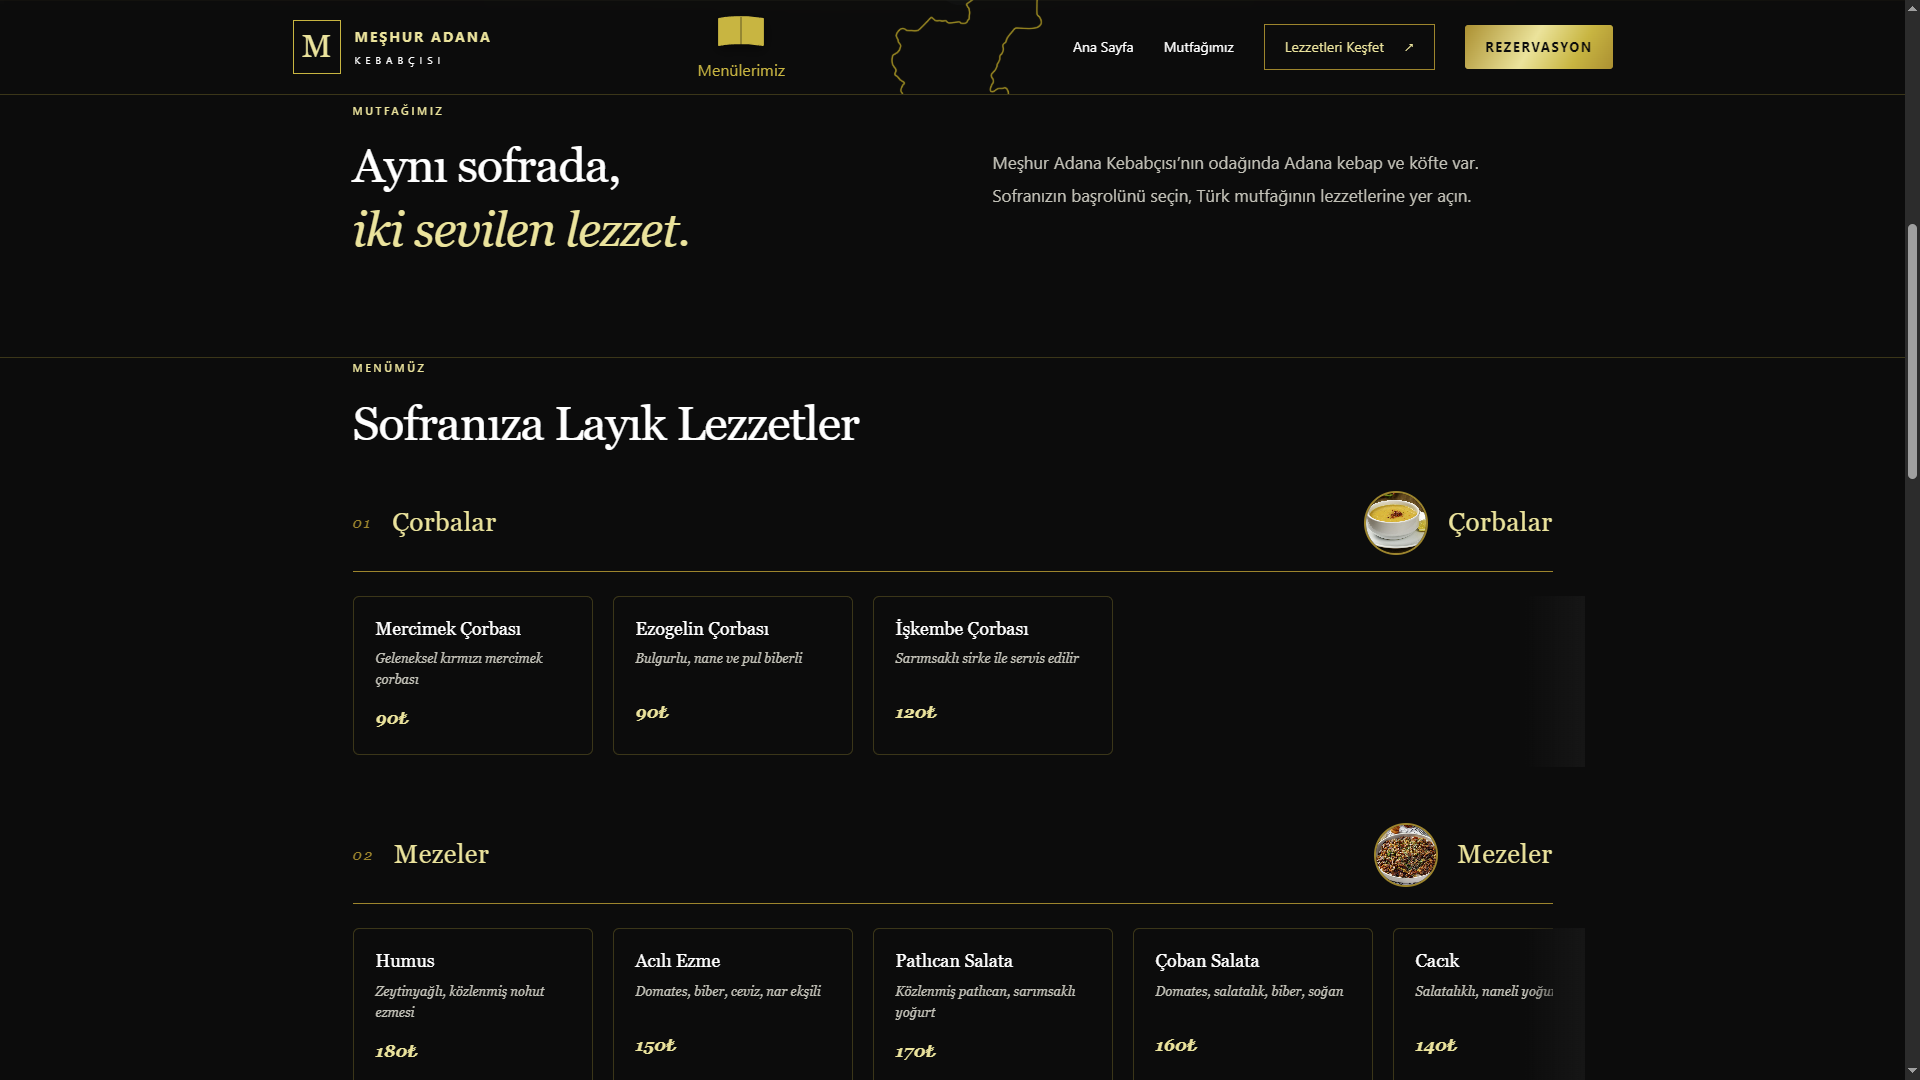
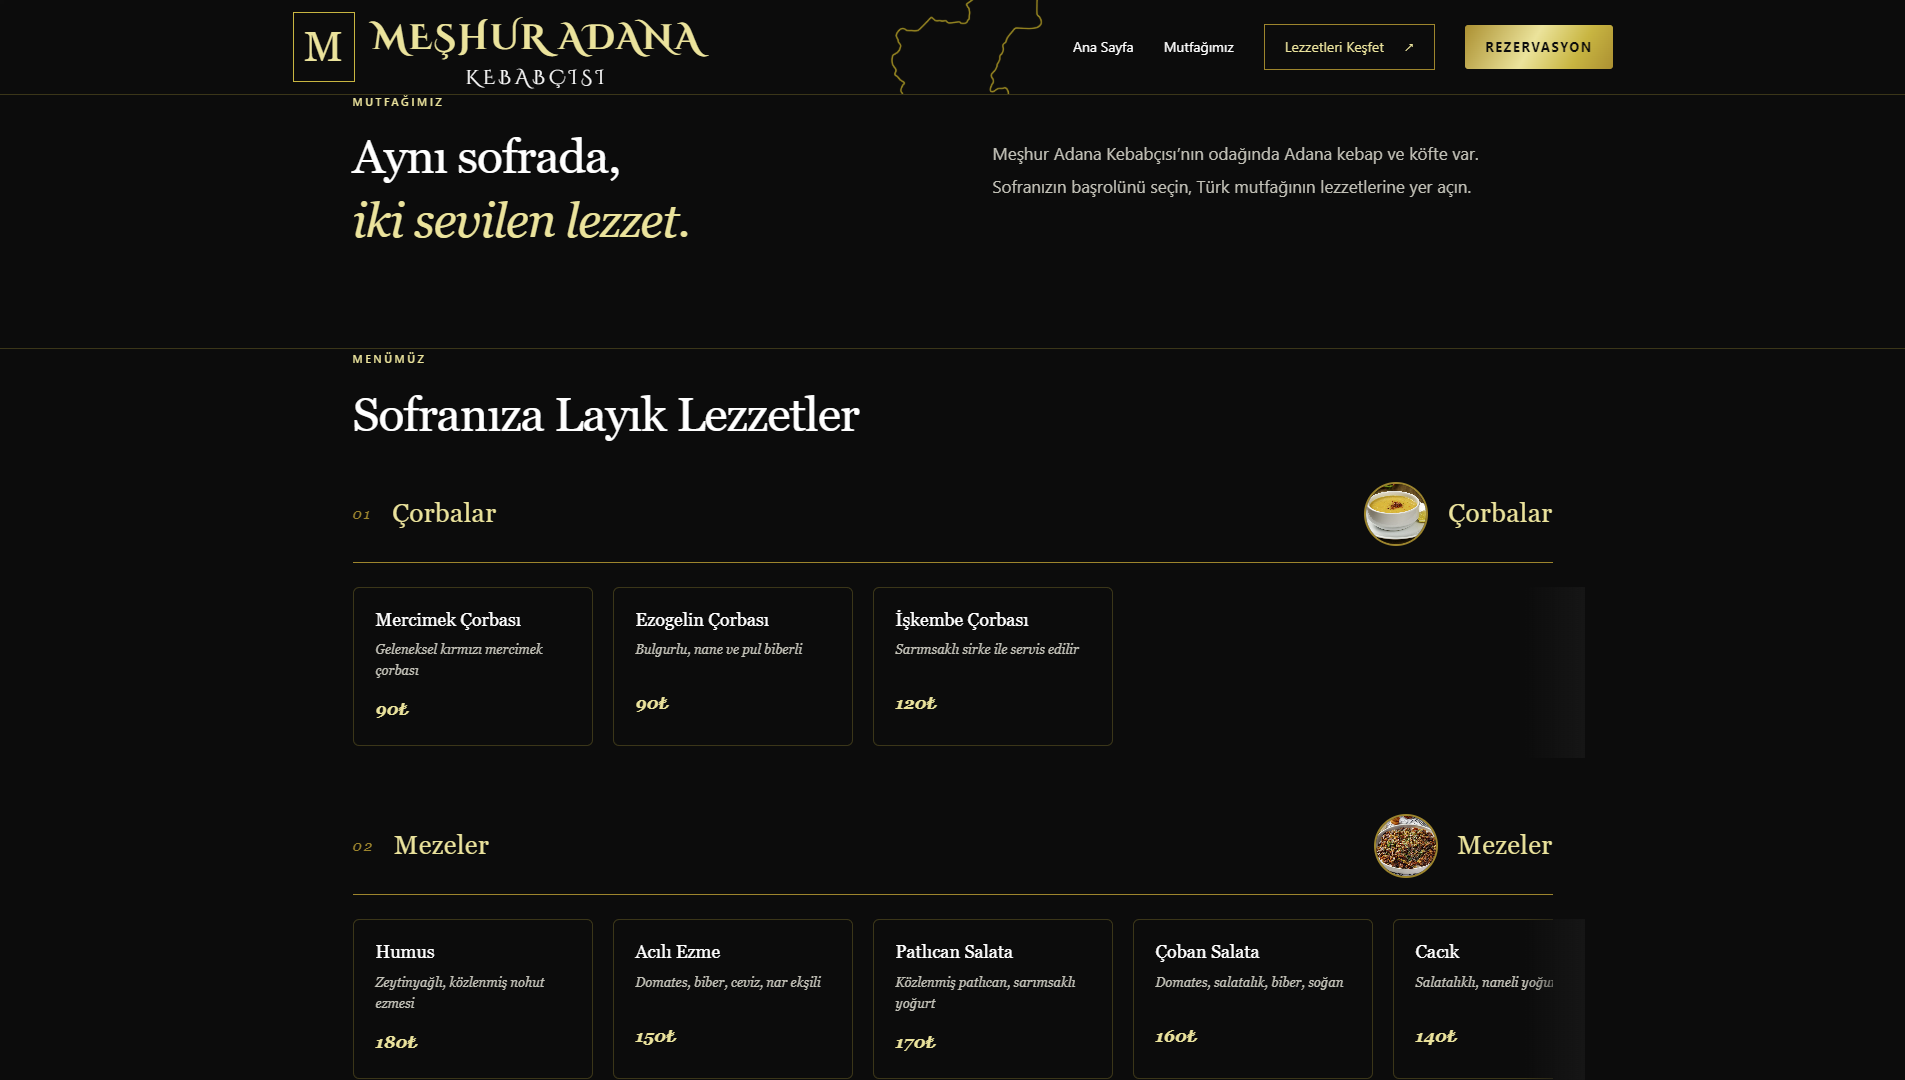
uptade

diff --git a/client/src/App.jsx b/client/src/App.jsx
@@ -50,121 +50,6 @@ const handleHeroBottomMouseMove = (event) => {
             </span>
           </a>
 
-          <a className="menu-book-link" href="#menu" aria-label="Menülerimiz" onClick={closeMenu}>
-  <svg className="menu-book-icon" viewBox="0 0 48 36" xmlns="http://www.w3.org/2000/svg" aria-hidden="true">
-  <g className="menu-book-pages" fill="none" stroke="currentColor">
-    <path d="M4 6C4 6 12 3 22 6V30C12 27 4 30 4 30V6Z" strokeWidth="1.6" strokeLinejoin="round" />
-    <path d="M44 6C44 6 36 3 26 6V30C36 27 44 30 44 30V6Z" strokeWidth="1.6" strokeLinejoin="round" />
-    <path d="M24 7V29" strokeWidth="1.6" />
-    <path d="M9 12H18M9 17H18M9 22H16" strokeWidth="1" strokeLinecap="round" opacity="0.6" />
-    <path d="M30 12H39M30 17H39M32 22H39" strokeWidth="1" strokeLinecap="round" opacity="0.6" />
-  </g>
-  <g className="menu-book-cover">
-    <path d="M4 6C4 6 22 2 44 6V30C22 26 4 30 4 30V6Z" fill="currentColor" stroke="currentColor" strokeWidth="1.2" strokeLinejoin="round" />
-    <path d="M24 4.5V31.5" stroke="#0c0c0c" strokeWidth="1" opacity="0.5" />
-  </g>
-</svg>
-
-<span className="menu-book-label">Menülerimiz</span>
-
-</a>
-
-          <style>{`
-            .menu-book-link {
-              position: absolute;
-              left: 34%;
-              top: 50%;
-              transform: translate(-50%, -50%);
-              width: 110px;
-              min-height: 74px;
-              display: flex;
-              flex-direction: column;
-              align-items: center;
-              justify-content: center;
-              gap: 5px;
-              color: #d4af37;
-              text-decoration: none;
-            }
-            .menu-book-icon {
-  width: 54px;
-  height: 40px;
-  overflow: visible;
-  filter: drop-shadow(0 4px 6px rgba(0,0,0,.45));
-}
-.menu-book-pages {
-  opacity: 0;
-  transform: scaleX(0);
-  transform-origin: 24px 18px;
-  transition: opacity 320ms ease 60ms, transform 320ms ease 60ms;
-}
-.menu-book-cover {
-  transform-origin: 44px 18px;
-  transition: transform 380ms ease, opacity 380ms ease;
-}
-.menu-book-link:hover .menu-book-pages,
-.menu-book-link:focus-visible .menu-book-pages {
-  opacity: 1;
-  transform: scaleX(1);
-}
-.menu-book-link:hover .menu-book-cover,
-.menu-book-link:focus-visible .menu-book-cover {
-  transform: rotate(-18deg) translateX(-6px);
-  opacity: 0;
-}
-.menu-book-label {
-            .menu-book-label {
-  position: absolute;
-  top: calc(50% + 25px);
-  left: 50%;
-  width: max-content;
-  font-size: 14px;
-  font-weight: 600;
-  line-height: 1.2;
-  letter-spacing: 1px;
-  opacity: 0;
-  translate: -50% 0;
-  transform: translateY(3px);
-  transition: opacity 220ms ease, transform 220ms ease;
-}
-            .menu-book-link:focus-visible {
-              outline: 2px solid #d4af37;
-              outline-offset: 4px;
-              border-radius: 4px;
-            }
-            .menu-book-link:focus-visible .menu-book { transform: scale(1.1); }
-            .menu-book-link:focus-visible .menu-book-label { opacity: 1; transform: translateY(0); }
-            @media (hover: hover) {
-              .menu-book-link:hover .menu-book {
-                transform: scale(1.1);
-                filter: drop-shadow(0 3px 9px rgba(212,175,55,.3));
-              }
-              .menu-book-link:hover .menu-book-label { opacity: 1; transform: translateY(0); }
-            }
-            @media (max-width: 1100px) and (min-width: 761px) {
-              .menu-book-link { left: 43%; width: 85px; }
-            }
-            @media (max-width: 760px) {
-              .menu-book-link {
-                position: static;
-                transform: none;
-                width: 64px;
-                min-height: 64px;
-                flex-shrink: 0;
-                margin-left: auto;
-              }
-              .menu-book-icon { width: 42px; height: 31px; }
-              .menu-book-icon { width: 42px; height: 31px; }
-              
-            }
-            @media (hover: none) {
-              .menu-book-label { opacity: 1; transform: none; }
-            }
-            @media (prefers-reduced-motion: reduce) {
-              .menu-book, .menu-book-label { transition: none; }
-              .menu-book-link:hover .menu-book,
-              .menu-book-link:focus-visible .menu-book { transform: none; }
-            }
-          `}</style>
 
           <button
             ref={menuButtonRef}

diff --git a/client/src/App.css b/client/src/App.css
@@ -41,38 +41,45 @@
 .brand {
   display: inline-flex;
   align-items: center;
-  gap: 14px;
+  gap: 18px;
   flex-shrink: 0;
+  
 }
 
 .brand-emblem {
   display: grid;
   place-items: center;
-  width: 48px;
-  height: 54px;
+  width: 62px;
+  height: 70px;
   border: 1px solid var(--gold);
   color: var(--gold-light);
   font-family: Georgia, serif;
-  font-size: 32px;
+  font-size: 42px;
 }
 
 .brand-text {
   display: flex;
   flex-direction: column;
-  gap: 3px;
+  align-items: center;
+  gap: 0px;
+  margin-top: 10px;
 }
 
 .brand-top {
   color: var(--gold-light);
-  font-size: 14px;
+  font-family: "Cinzel Decorative", Georgia, serif;
   font-weight: 700;
+  font-size: 35px;
   letter-spacing: 2px;
 }
 
 .brand-bottom {
   color: var(--white);
-  font-size: 10px;
-  letter-spacing: 5px;
+  font-family: "Cinzel Decorative", Georgia, serif;
+  font-weight: 400;
+  font-size: 20px;
+  letter-spacing: 4px;
+  margin-top: -5px;
 }
 
 .site-navigation {
@@ -99,6 +106,13 @@
   padding: 10px 20px;
   color: var(--gold-light);
   border: 1px solid var(--gold-dark);
+  transition: box-shadow 260ms ease, border-color 260ms ease, color 260ms ease;
+}
+
+.site-navigation .nav-cta:hover {
+  border-color: var(--gold);
+  color: var(--gold);
+  box-shadow: 0 0 18px rgba(212, 175, 55, 0.55);
 }
 
 .menu-toggle {

diff --git a/client/index.html b/client/index.html
@@ -9,6 +9,9 @@
 <meta property="og:type" content="restaurant">
     <meta name="viewport" content="width=device-width, initial-scale=1.0" />
     <title>Meşhur Adana Kebabçısı | Samsun</title>
+    <link rel="preconnect" href="https://fonts.googleapis.com">
+<link rel="preconnect" href="https://fonts.gstatic.com" crossorigin>
+<link href="https://fonts.googleapis.com/css2?family=Cinzel+Decorative:wght@400;700&display=swap" rel="stylesheet">
   </head>
   <body>
     <div id="root"></div>
